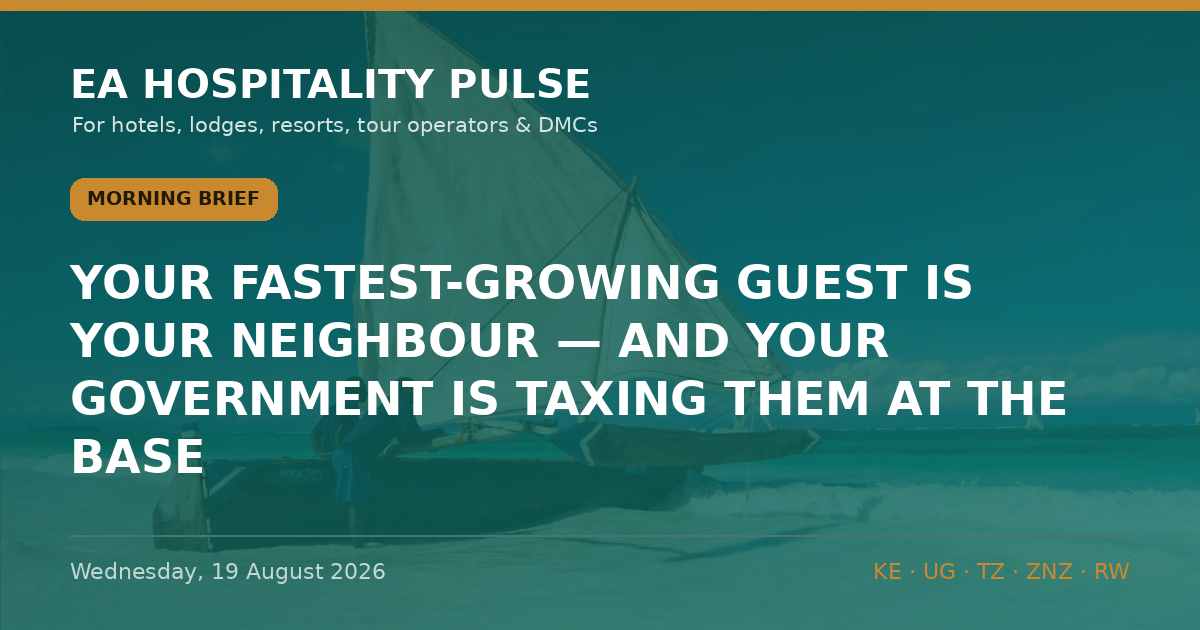
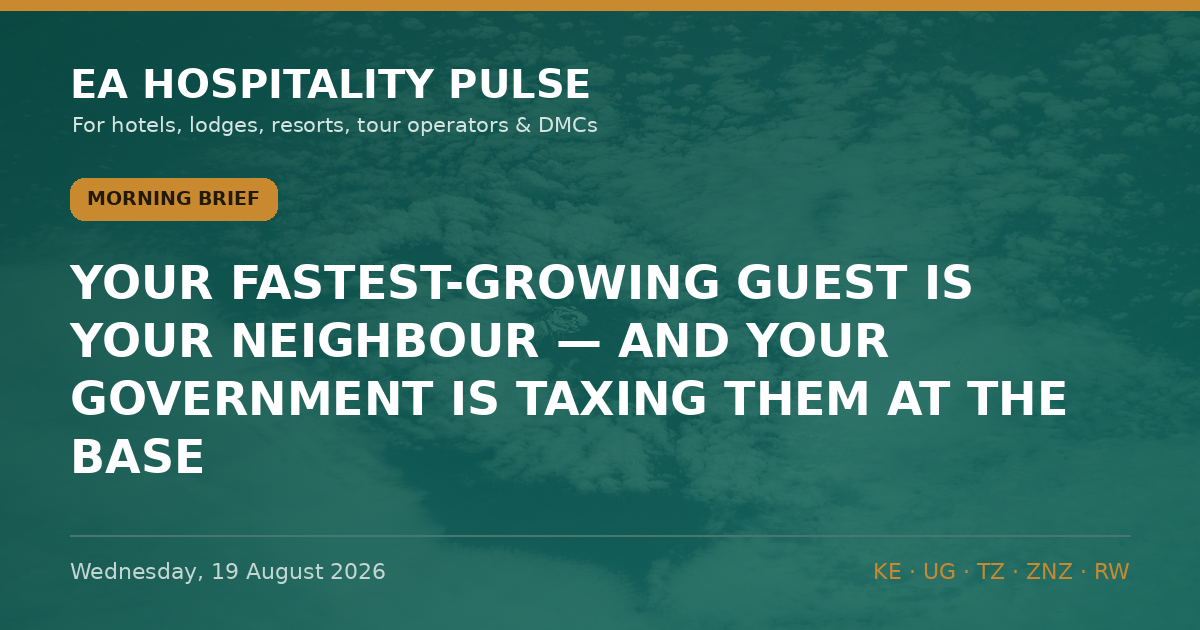
Auto-build: 2026-08-19 05:48 UTC

diff --git a/data.js b/data.js
@@ -9,15 +9,6 @@ window.EDITIONS = [
   "bodyHtml": "<p>☀ <strong>MORNING BRIEF — Tue 19 Aug 2026</strong><br><em>Quiet news slot — one expert read that matters more than any headline.</em></p>\n<p><strong>YOUR FASTEST-GROWING GUEST IS YOUR NEIGHBOUR — AND YOUR GOVERNMENT IS TAXING THEM AT THE BASE</strong></p>\n<p>Read the 2025 source-market tables and the story stops being about Europe. Uganda sent Kenya <strong>234,556 visitors in 2025 — 31% of all African arrivals, up 8.7%</strong>; Tanzania <strong>209,536, up 7.7%</strong> (KTB/TRI data via POATE 2026, reported by Citizen Digital &amp; New Vision). Kenya now targets <strong>300,000 Ugandan arrivals</strong>. In Rwanda it&#x27;s starker: the <strong>DRC is now the single largest source market — 185,420 visitors in H1 2026, 12.5% of all international arrivals</strong> (RDB). The regional guest is the base load now, not the overflow.</p>\n<p><strong>What most operators miss:</strong> the guest base changed but the playbook didn&#x27;t. The marginal booking now comes from a traveller who ignores Western Level-3 advisories, books short, drives or short-hauls in, and pays in a regional currency — yet we still run a long-haul-dollar operation: USD rack rates, GDS/OTA distribution, risk comms aimed at Europe. Worse, the same treasuries celebrating this demand are taxing its most price-sensitive flyer. Kenya&#x27;s JKIA passenger levy is now <strong>pledged to bondholders</strong> (Business Daily, 24 Jul) — hard to cut — with a 2% short-term-rental levy and a proposed travel-health-insurance charge stacking on top. Regional demand shrugs off advisories but is exquisitely sensitive to a $20 levy.</p>\n<p><span class=\"sowhat\">🎯 <strong>So what — by segment:</strong></span><br>🏙 <strong>City:</strong> regional corporate, VFR and events traffic is your steadiest base — build regional-agent and WhatsApp distribution, quote in regional terms, not just a USD rack. 🌿 <strong>Bush:</strong> regional guests are lower-ADR but fill shoulder/low season and hedge advisory-driven long-haul softness — watch the total trip cost, because a park-fee-plus-air-levy stack is what loses them. 🏖 <strong>Beach:</strong> the drive-and-short-haul market (Ugandans/Tanzanians to Diani &amp; Mombasa, regional flyers to Zanzibar) is now year-round base load — protect it from feeder-route fragility and levy creep.<br><span class=\"tagline\">🏷 Regional · Confirmed (KTB/TRI 2025, RDB H1 2026) / Inference on operator response.</span></p>\n<hr class=\"divider\">\n<p>✅ <strong>STILL TRUE</strong> — No EA advisory moved. Kenya <strong>US Level 2</strong> (core corridors, Diani, Watamu clear); Tanzania &amp; Zanzibar <strong>Level 3</strong> (since 31 Oct 2025); Uganda <strong>US Level 4</strong> on residual Ebola grounds despite its 28 Jul outbreak-over call (travel.state.gov, verified 12 Aug). The regional guest travels through all of it — don&#x27;t discount as though it had lifted.<br>💷 <strong>COST PULSE</strong> — Price regional in regional money: KES→UGX <strong>28.36</strong> · KES→TZS <strong>20.30</strong> · KES→RWF <strong>11.31</strong> (CBK weekly). Kenya diesel <strong>KSh 217.86/L</strong> (EPRA, 14 Aug) — refuse any supplier fuel surcharge this cycle.<br><span class=\"meta-line\">📅 <strong>WEEK AHEAD</strong> — <strong>19–21 Aug</strong> Hotel Expo Kenya, KICC · <strong>18–20 Aug</strong> AfPIF, Kigali Marriott · late Aug KNBS/UBOS/NISR CPI · <strong>26–28 Aug</strong> Africa Global PR Week, Nairobi · <strong>4 Sep</strong> Kwita Izina, Musanze.</span><br><span class=\"meta-line\">📡 <strong>RADAR</strong> — 470 in-window observations to 08:38 EAT; feed live. No EA advisory moved (only Mauritania/Netherlands/Ecuador flagged). Jambojet &amp; Airlink press pages moved behind Incapsula — a persistent blind spot, not news. Kenya Law feed heavy with court judgments, none hospitality.</span></p>\n<p>🔗 This edition on the web: https://eahospitalitypulse.com/editions/pulse-2026-08-19-morning.html</p>"
  },
  {
-  "id": "pulse-2026-08-18-special",
-  "date": "2026-08-18",
-  "dateDisplay": "Tuesday, 18 August 2026",
-  "edition": "Morning Brief",
-  "editionKey": "morning",
-  "summary": "🗓 Tuesday 18 August 2026 | 🇰🇪 KNBS data drop",
-  "bodyHtml": "<p>📊 <strong>EA HOSPITALITY PULSE — Special Edition</strong><br>🗓 Tuesday 18 August 2026 | 🇰🇪 KNBS data drop</p>\n<p><em>Kenya&#x27;s arrivals are up — but not where the headline says. Read the map before the margin.</em><br>━━━━━━━━━<br><strong>1⃣ 🇰🇪 THE COAST IS OUTGROWING THE GATEWAY — AND THE NATIONAL NUMBER HIDES IT</strong></p>\n<p>Official visitor arrivals now run through April. Jan–Apr 2026: <strong>828,830, up 9.5%</strong> on the same months of 2025 (757,245) — Kenya Leading Economic Indicators, June 2026, KNBS, released 14 Aug.</p>\n<p>The headline is real. The distribution is the story. Mombasa&#x27;s Moi International (MIA) took <strong>96,701 arrivals, up 19.7%</strong> year-on-year, while JKIA grew <strong>8.5%</strong> and land borders <strong>7.5%</strong>. The coast is recovering over twice as fast as the Nairobi gateway.</p>\n<p><strong>What everyone is missing:</strong> the +9.5% is not evenly yours. In April — the long-rains trough — national arrivals rose just 2.9% and <strong>JKIA fell 1.0%</strong> YoY. Strip the coast out and the city-gateway recovery is modest and seasonal. A Nairobi GM reading &quot;+9.5%&quot; as their own demand is reading the wrong line. Backing it: SGR passengers ran <strong>~12% ahead</strong> in Q1 — the Nairobi–Mombasa corridor is carrying this (KNBS).</p>\n<p><span class=\"tagline\">🏷 City/Beach · Kenya · Confirmed (KNBS arrivals &amp; SGR) / Inference (regional read)</span><br><span class=\"sowhat\">🎯 <strong>So what:</strong> <strong>Coast</strong> — demand is arriving; hold rate through the Sep–Oct build and stop discounting. <strong>Nairobi</strong> — treat H1 as flat-to-soft on your own gateway; win share through corporate, MICE and regional traffic, not a rising tide.</span></p>\n<p><strong>2⃣ 🇰🇪 THE CURRENCY IS QUIETLY REPRICING YOUR EUROPEAN GUEST</strong></p>\n<p>Over H1 2026 the shilling <strong>firmed</strong> against sterling (174.32→<strong>172.72</strong>) and the euro (151.37→<strong>149.22</strong>), flat against the dollar at <strong>~129.5</strong> (KNBS, June). Inflation sat at <strong>6.4%</strong>, the CBR held at <strong>8.75%</strong>.</p>\n<p>Read together: a European operator&#x27;s fixed FX budget now buys <strong>fewer shillings</strong> than in January — mild pressure on any KES-cost property selling into Europe, while dollar-priced lodges keep their spread intact.</p>\n<p><span class=\"tagline\">🏷 City/Bush/Beach · Kenya · Confirmed (KNBS forex/CPI) / Inference (pricing read)</span><br><span class=\"sowhat\">🎯 <strong>So what:</strong> If you cost in shillings and sell in euros or pounds, revisit 2027 contract rates now — the FX drift is against you. Price in USD and you&#x27;re insulated.</span></p>\n<p>━━━━━━━━━<br>🍲 <strong>SUPPLY-CHAIN SIDEBAR — where your southern-circuit kitchen shops</strong></p>\n<p>Informal cross-border trade <strong>fell 16.7%</strong> in 2025 (KSh 299.0m→249.1m), and <strong>Tanzania became the top source of informal imports at 47.2%</strong>, overwhelmingly <strong>food and live animals (78.5%)</strong> — KNBS Informal Cross-Border Trade Survey 2025, released 17 Aug. Main entry points: <strong>Namanga, Isebania, Malaba</strong> — the Amboseli, Mara and Uganda corridors.</p>\n<p><span class=\"sowhat\">🎯 <strong>So what:</strong> Southern-circuit lodges run partly on this informal Tanzanian fresh-food flow. A contracting, Tanzania-concentrated supply line is a produce-cost and continuity risk — worth a word with your F&amp;B suppliers before high season. 🏷 Bush · Confirmed (KNBS ICBT) / Inference.</span></p>\n<p>━━━━━━━━━<br>✅ <strong>STILL TRUE</strong> — Kenya remains US <strong>Level 2</strong>; core corridors (Nairobi, Diani, Watamu) sit in no Level 4 area (travel.state.gov, verified 12 Aug). Don&#x27;t discount on a story that hasn&#x27;t moved.</p>\n<p>⚡ <strong>COST PULSE</strong> — Nairobi diesel holds <strong>KSh 217.86/L</strong> to 14 Sep, ~KSh 14.28/L above landed-cost parity (EPRA / Business Daily, 14 Aug).</p>\n<p><span class=\"meta-line\">📅 <strong>WEEK AHEAD</strong> — <strong>19–21 Aug</strong> Hotel Expo Kenya, KICC · <strong>26–28 Aug</strong> Africa Global PR Week, Nairobi. Watch the <strong>May–June arrivals</strong> print to confirm the coast trend.</span></p>\n<p>🔗 This edition on the web: https://eahospitalitypulse.com/editions/pulse-2026-08-18-special.html<br>— EA Hospitality Pulse | Daily intelligence for city, bush &amp; beach properties</p>"
- },
- {
   "id": "pulse-2026-08-18-morning",
   "date": "2026-08-18",
   "dateDisplay": "Tuesday, 18 August 2026",
@@ -25,6 +16,15 @@ window.EDITIONS = [
   "editionKey": "morning",
   "summary": "1⃣ 🌍 THE AIRLIFT YOU'RE CELEBRATING IS THE LEAST PROFITABLE IN THE WORLD",
   "bodyHtml": "<p>🌅 <strong>EA HOSPITALITY PULSE — Morning Brief</strong><br>🗓 Tuesday 18 August 2026 | 🌍 🇰🇪 🇺🇬 🇷🇼 🇹🇿</p>\n<p><em>Expert Brief: East Africa is adding air routes faster than its airlines can afford to fly them.</em><br>━━━━━━━━━<br><strong>1⃣ 🌍 THE AIRLIFT YOU&#x27;RE CELEBRATING IS THE LEAST PROFITABLE IN THE WORLD</strong></p>\n<p>Every route launch lands as good news in this business. Uganda Airlines opens Entebbe–Accra on 27 Oct and daily Entebbe–Kigali on 18 Nov (announced 5 Aug, The EastAfrican); Airlink starts Cape Town–Zanzibar on 3 Oct. Read the balance sheet underneath and the mood changes.</p>\n<p>IATA&#x27;s December outlook put African carriers at <strong>US$1.30 of profit per passenger</strong> for 2026 against a <strong>US$7.90</strong> global average — a <strong>1.3% margin, the thinnest of any region</strong> (IATA, 9 Dec 2025). By its June AGM it had cut the 2026 line again: profit per passenger down to <strong>40 US cents</strong> from US$2.10 in 2025, and the continent&#x27;s total net profit halved to <strong>~US$100m</strong> (IATA &quot;Energy in Crisis&quot; outlook, 8 Jun 2026). East Africa&#x27;s recovery is riding on the most fragile airlift economics on the planet.</p>\n<p><strong>What everyone is missing:</strong> a new-route press release reads as demand arriving. It is actually thin-margin capacity being <strong>lent</strong> — and thin-margin capacity is the first thing cut when a season underperforms. Turkish suspended 18 routes for summer 2026, Istanbul–Dar es Salaam among them, final flights in May/June (reported 2026). The route you don&#x27;t help fill in its first two seasons is the route that isn&#x27;t there in year three. Airlift is not infrastructure you inherit; it&#x27;s a trade relationship you keep alive.</p>\n<p><span class=\"tagline\">🏷 City/Bush/Beach · Regional · Confirmed (IATA figures &amp; schedules) / Inference (fragility read)</span><br><span class=\"sowhat\">🎯 <strong>So what — by segment:</strong> <strong>City</strong> (Nairobi/Kigali/Kampala): put corporate blocks and MICE contracts onto the new regional frequencies so they survive to a third season. <strong>Bush:</strong> the luxury pivot means fewer, higher-value guests who still need a long-haul seat — cultivate the carriers that actually serve your source markets. <strong>Beach:</strong> feeder routes are the most fragile of all — a trial like Cape Town–Zanzibar lives or dies on load factor. Fill it or lose it.</span></p>\n<p>━━━━━━━━━<br>✅ <strong>STILL TRUE</strong> — Tanzania &amp; Zanzibar remain US <strong>Level 3</strong> (unchanged since 31 Oct 2025); Kenya <strong>Level 2</strong>, core tourist corridors clear (travel.state.gov, verified 12 Aug). Nothing moved overnight. Don&#x27;t discount as though it had.</p>\n<p>⚡ <strong>COST PULSE</strong> — Nairobi diesel holds at <strong>KSh 217.86/L</strong> to 14 Sep; operators are carrying roughly <strong>KSh 14.28/L above landed-cost parity</strong> — refuse any supplier fuel surcharge this cycle (EPRA / Business Daily, 14 Aug).</p>\n<p>🎤 <strong>MICE WATCH</strong> — <strong>AfPIF</strong> (300–500 delegates) fills the Kigali Marriott cluster <strong>18–20 Aug</strong>; <strong>Hotel Expo Kenya</strong> at KICC, <strong>19–21 Aug</strong>. Hold corporate rate, don&#x27;t discount into the shoulder.</p>\n<p><span class=\"meta-line\">📅 <strong>WEEK AHEAD</strong> — <strong>18 Aug</strong> WHO IHR Committee on the Bundibugyo PHEIC · <strong>22 Aug</strong> Julius Nyerere hydropower inauguration, TZ · <strong>26–28 Aug</strong> Africa Global PR Week, Mövenpick Nairobi · <strong>28 Aug</strong> WTA Africa Gala, Zanzibar · <strong>late Aug</strong> KNBS/UBOS/NISR CPI prints.</span></p>\n<p><span class=\"meta-line\">📡 <strong>RADAR</strong> — 593 in-window observations to 08:17 EAT; feed live. Jambojet and Airlink press pages moved again behind Incapsula — a persistent blind spot, not a quiet night. Kenya Law feed heavy with court judgments, none hospitality. No advisory level moved.</span></p>\n<p><span class=\"meta-line\">💬 Which inbound route would you actually miss — and are you filling it, or just watching it?</span></p>\n<p>🔗 This edition on the web: https://eahospitalitypulse.com/editions/pulse-2026-08-18-morning.html<br>— EA Hospitality Pulse | Daily intelligence for city, bush &amp; beach properties</p>"
+ },
+ {
+  "id": "pulse-2026-08-18-special",
+  "date": "2026-08-18",
+  "dateDisplay": "Tuesday, 18 August 2026",
+  "edition": "Morning Brief",
+  "editionKey": "morning",
+  "summary": "🗓 Tuesday 18 August 2026 | 🇰🇪 KNBS data drop",
+  "bodyHtml": "<p>📊 <strong>EA HOSPITALITY PULSE — Special Edition</strong><br>🗓 Tuesday 18 August 2026 | 🇰🇪 KNBS data drop</p>\n<p><em>Kenya&#x27;s arrivals are up — but not where the headline says. Read the map before the margin.</em><br>━━━━━━━━━<br><strong>1⃣ 🇰🇪 THE COAST IS OUTGROWING THE GATEWAY — AND THE NATIONAL NUMBER HIDES IT</strong></p>\n<p>Official visitor arrivals now run through April. Jan–Apr 2026: <strong>828,830, up 9.5%</strong> on the same months of 2025 (757,245) — Kenya Leading Economic Indicators, June 2026, KNBS, released 14 Aug.</p>\n<p>The headline is real. The distribution is the story. Mombasa&#x27;s Moi International (MIA) took <strong>96,701 arrivals, up 19.7%</strong> year-on-year, while JKIA grew <strong>8.5%</strong> and land borders <strong>7.5%</strong>. The coast is recovering over twice as fast as the Nairobi gateway.</p>\n<p><strong>What everyone is missing:</strong> the +9.5% is not evenly yours. In April — the long-rains trough — national arrivals rose just 2.9% and <strong>JKIA fell 1.0%</strong> YoY. Strip the coast out and the city-gateway recovery is modest and seasonal. A Nairobi GM reading &quot;+9.5%&quot; as their own demand is reading the wrong line. Backing it: SGR passengers ran <strong>~12% ahead</strong> in Q1 — the Nairobi–Mombasa corridor is carrying this (KNBS).</p>\n<p><span class=\"tagline\">🏷 City/Beach · Kenya · Confirmed (KNBS arrivals &amp; SGR) / Inference (regional read)</span><br><span class=\"sowhat\">🎯 <strong>So what:</strong> <strong>Coast</strong> — demand is arriving; hold rate through the Sep–Oct build and stop discounting. <strong>Nairobi</strong> — treat H1 as flat-to-soft on your own gateway; win share through corporate, MICE and regional traffic, not a rising tide.</span></p>\n<p><strong>2⃣ 🇰🇪 THE CURRENCY IS QUIETLY REPRICING YOUR EUROPEAN GUEST</strong></p>\n<p>Over H1 2026 the shilling <strong>firmed</strong> against sterling (174.32→<strong>172.72</strong>) and the euro (151.37→<strong>149.22</strong>), flat against the dollar at <strong>~129.5</strong> (KNBS, June). Inflation sat at <strong>6.4%</strong>, the CBR held at <strong>8.75%</strong>.</p>\n<p>Read together: a European operator&#x27;s fixed FX budget now buys <strong>fewer shillings</strong> than in January — mild pressure on any KES-cost property selling into Europe, while dollar-priced lodges keep their spread intact.</p>\n<p><span class=\"tagline\">🏷 City/Bush/Beach · Kenya · Confirmed (KNBS forex/CPI) / Inference (pricing read)</span><br><span class=\"sowhat\">🎯 <strong>So what:</strong> If you cost in shillings and sell in euros or pounds, revisit 2027 contract rates now — the FX drift is against you. Price in USD and you&#x27;re insulated.</span></p>\n<p>━━━━━━━━━<br>🍲 <strong>SUPPLY-CHAIN SIDEBAR — where your southern-circuit kitchen shops</strong></p>\n<p>Informal cross-border trade <strong>fell 16.7%</strong> in 2025 (KSh 299.0m→249.1m), and <strong>Tanzania became the top source of informal imports at 47.2%</strong>, overwhelmingly <strong>food and live animals (78.5%)</strong> — KNBS Informal Cross-Border Trade Survey 2025, released 17 Aug. Main entry points: <strong>Namanga, Isebania, Malaba</strong> — the Amboseli, Mara and Uganda corridors.</p>\n<p><span class=\"sowhat\">🎯 <strong>So what:</strong> Southern-circuit lodges run partly on this informal Tanzanian fresh-food flow. A contracting, Tanzania-concentrated supply line is a produce-cost and continuity risk — worth a word with your F&amp;B suppliers before high season. 🏷 Bush · Confirmed (KNBS ICBT) / Inference.</span></p>\n<p>━━━━━━━━━<br>✅ <strong>STILL TRUE</strong> — Kenya remains US <strong>Level 2</strong>; core corridors (Nairobi, Diani, Watamu) sit in no Level 4 area (travel.state.gov, verified 12 Aug). Don&#x27;t discount on a story that hasn&#x27;t moved.</p>\n<p>⚡ <strong>COST PULSE</strong> — Nairobi diesel holds <strong>KSh 217.86/L</strong> to 14 Sep, ~KSh 14.28/L above landed-cost parity (EPRA / Business Daily, 14 Aug).</p>\n<p><span class=\"meta-line\">📅 <strong>WEEK AHEAD</strong> — <strong>19–21 Aug</strong> Hotel Expo Kenya, KICC · <strong>26–28 Aug</strong> Africa Global PR Week, Nairobi. Watch the <strong>May–June arrivals</strong> print to confirm the coast trend.</span></p>\n<p>🔗 This edition on the web: https://eahospitalitypulse.com/editions/pulse-2026-08-18-special.html<br>— EA Hospitality Pulse | Daily intelligence for city, bush &amp; beach properties</p>"
  },
  {
   "id": "pulse-2026-08-17-evening",
@@ -2047,4 +2047,4 @@ window.INSIGHTS = [
   "editionKey": "evening"
  }
 ];
-window.BUILT_AT = "2026-08-19 08:46";
+window.BUILT_AT = "2026-08-19 05:47";

diff --git a/editions/pulse-2026-08-19-morning.html b/editions/pulse-2026-08-19-morning.html
@@ -122,7 +122,7 @@ footer.s{text-align:center;color:var(--muted);font-family:Helvetica Neue,Arial,s
 <div class="wrap">
   <article class="art">
     <img class="hero" src="../og/pulse-2026-08-19-morning-clean.png" alt="Morning Brief — Wednesday, 19 August 2026" loading="eager">
-    
+    <p class="hcredit">Photo: NASA Johnson Space Center · <a href="https://commons.wikimedia.org/wiki/File:Mount_Kilimanjaro_surrounded_by_clouds_and_the_highest_mountian_in_Africa_(iss071e378517).jpg" target="_blank" rel="noopener nofollow">Wikimedia Commons</a> · Public domain</p>
     <nav class="crumbs" aria-label="Breadcrumb"><a href="../index.html">Home</a><span aria-hidden="true">/</span><a href="../index.html#archive">Editions</a><span aria-hidden="true">/</span><span aria-current="page">Morning Brief, Wednesday, 19 August 2026</span></nav>
     <div class="kicker"><span class="badge">Morning Brief</span><time datetime="2026-08-19">Wednesday, 19 August 2026</time></div>
     <h1>Your Fastest-growing Guest Is Your Neighbour — and Your Government Is Taxing Them at the Base.</h1>
@@ -136,7 +136,7 @@ footer.s{text-align:center;color:var(--muted);font-family:Helvetica Neue,Arial,s
 <p>🔗 This edition on the web: https://eahospitalitypulse.com/editions/pulse-2026-08-19-morning.html</p>
     
     <aside class="refs" aria-label="Reference guides"><h2>Reference</h2><ul><li><a href="../guides/ota-commission-what-it-actually-costs.html">What OTA commission actually costs an East African hotel</a></li><li><a href="../guides/park-permit-fees-east-africa.html">Park and permit fees across East Africa: what to check before you quote</a></li><li><a href="../guides/sustainability-compliance-east-africa.html">Sustainability compliance in East Africa — plastics, carbon and certification, without the hype</a></li><li><a href="../guides/tech-stack-east-africa.html">The East African hotel tech stack — payment costs, PMS fit and where AI pricing actually works</a></li><li><a href="../guides/travel-advisories-what-actually-moves-bookings.html">Reading a travel advisory: what actually moves bookings</a></li></ul></aside>
-    <nav class="pnrow"><a class="pn prev" href="pulse-2026-08-18-special.html" rel="prev">← Morning Brief · Tuesday, 18 August 2026</a></nav>
+    <nav class="pnrow"><a class="pn prev" href="pulse-2026-08-18-morning.html" rel="prev">← Morning Brief · Tuesday, 18 August 2026</a></nav>
     <div class="sub">
       <b>Follow the Pulse</b> — three briefs a day across Kenya, Uganda, Tanzania, Zanzibar &amp; Rwanda.<br>
       <a href="https://t.me/eahospitalitypulse" target="_blank" rel="noopener">📣 Telegram (full editions)</a>

diff --git a/editions/pulse-2026-08-17-evening.html b/editions/pulse-2026-08-17-evening.html
@@ -139,7 +139,7 @@ footer.s{text-align:center;color:var(--muted);font-family:Helvetica Neue,Arial,s
 <p>🔗 This edition on the web: https://eahospitalitypulse.com/editions/pulse-2026-08-17-evening.html<br>💼 Today&#x27;s Big Read on LinkedIn: https://www.linkedin.com/company/ea-hospitality-pulse/<br>— EA Hospitality Pulse | Daily intelligence for city, bush &amp; beach properties</p>
     <div class="more"><b>More from Monday, 17 August 2026:</b> <a href="pulse-2026-08-17-midday.html">Midday Pulse</a></div>
     <aside class="refs" aria-label="Reference guides"><h2>Reference</h2><ul><li><a href="../guides/ota-commission-what-it-actually-costs.html">What OTA commission actually costs an East African hotel</a></li><li><a href="../guides/park-permit-fees-east-africa.html">Park and permit fees across East Africa: what to check before you quote</a></li><li><a href="../guides/sustainability-compliance-east-africa.html">Sustainability compliance in East Africa — plastics, carbon and certification, without the hype</a></li><li><a href="../guides/tech-stack-east-africa.html">The East African hotel tech stack — payment costs, PMS fit and where AI pricing actually works</a></li><li><a href="../guides/travel-advisories-what-actually-moves-bookings.html">Reading a travel advisory: what actually moves bookings</a></li></ul></aside>
-    <nav class="pnrow"><a class="pn prev" href="pulse-2026-08-17-midday.html" rel="prev">← Midday Pulse · Monday, 17 August 2026</a><a class="pn next" href="pulse-2026-08-18-morning.html" rel="next">Morning Brief · Tuesday, 18 August 2026 →</a></nav>
+    <nav class="pnrow"><a class="pn prev" href="pulse-2026-08-17-midday.html" rel="prev">← Midday Pulse · Monday, 17 August 2026</a><a class="pn next" href="pulse-2026-08-18-special.html" rel="next">Morning Brief · Tuesday, 18 August 2026 →</a></nav>
     <div class="sub">
       <b>Follow the Pulse</b> — three briefs a day across Kenya, Uganda, Tanzania, Zanzibar &amp; Rwanda.<br>
       <a href="https://t.me/eahospitalitypulse" target="_blank" rel="noopener">📣 Telegram (full editions)</a>

diff --git a/editions/pulse-2026-08-18-morning.html b/editions/pulse-2026-08-18-morning.html
@@ -141,7 +141,7 @@ footer.s{text-align:center;color:var(--muted);font-family:Helvetica Neue,Arial,s
 <p>🔗 This edition on the web: https://eahospitalitypulse.com/editions/pulse-2026-08-18-morning.html<br>— EA Hospitality Pulse | Daily intelligence for city, bush &amp; beach properties</p>
     <div class="more"><b>More from Tuesday, 18 August 2026:</b> <a href="pulse-2026-08-18-special.html">Morning Brief</a></div>
     <aside class="refs" aria-label="Reference guides"><h2>Reference</h2><ul><li><a href="../guides/ota-commission-what-it-actually-costs.html">What OTA commission actually costs an East African hotel</a></li><li><a href="../guides/park-permit-fees-east-africa.html">Park and permit fees across East Africa: what to check before you quote</a></li><li><a href="../guides/sustainability-compliance-east-africa.html">Sustainability compliance in East Africa — plastics, carbon and certification, without the hype</a></li><li><a href="../guides/tech-stack-east-africa.html">The East African hotel tech stack — payment costs, PMS fit and where AI pricing actually works</a></li><li><a href="../guides/travel-advisories-what-actually-moves-bookings.html">Reading a travel advisory: what actually moves bookings</a></li></ul></aside>
-    <nav class="pnrow"><a class="pn prev" href="pulse-2026-08-17-evening.html" rel="prev">← Evening Wrap · Monday, 17 August 2026</a><a class="pn next" href="pulse-2026-08-18-special.html" rel="next">Morning Brief · Tuesday, 18 August 2026 →</a></nav>
+    <nav class="pnrow"><a class="pn prev" href="pulse-2026-08-18-special.html" rel="prev">← Morning Brief · Tuesday, 18 August 2026</a><a class="pn next" href="pulse-2026-08-19-morning.html" rel="next">Morning Brief · Wednesday, 19 August 2026 →</a></nav>
     <div class="sub">
       <b>Follow the Pulse</b> — three briefs a day across Kenya, Uganda, Tanzania, Zanzibar &amp; Rwanda.<br>
       <a href="https://t.me/eahospitalitypulse" target="_blank" rel="noopener">📣 Telegram (full editions)</a>

diff --git a/editions/pulse-2026-08-18-special.html b/editions/pulse-2026-08-18-special.html
@@ -145,7 +145,7 @@ footer.s{text-align:center;color:var(--muted);font-family:Helvetica Neue,Arial,s
 <p>🔗 This edition on the web: https://eahospitalitypulse.com/editions/pulse-2026-08-18-special.html<br>— EA Hospitality Pulse | Daily intelligence for city, bush &amp; beach properties</p>
     <div class="more"><b>More from Tuesday, 18 August 2026:</b> <a href="pulse-2026-08-18-morning.html">Morning Brief</a></div>
     <aside class="refs" aria-label="Reference guides"><h2>Reference</h2><ul><li><a href="../guides/ota-commission-what-it-actually-costs.html">What OTA commission actually costs an East African hotel</a></li><li><a href="../guides/park-permit-fees-east-africa.html">Park and permit fees across East Africa: what to check before you quote</a></li><li><a href="../guides/sustainability-compliance-east-africa.html">Sustainability compliance in East Africa — plastics, carbon and certification, without the hype</a></li><li><a href="../guides/tech-stack-east-africa.html">The East African hotel tech stack — payment costs, PMS fit and where AI pricing actually works</a></li><li><a href="../guides/travel-advisories-what-actually-moves-bookings.html">Reading a travel advisory: what actually moves bookings</a></li></ul></aside>
-    <nav class="pnrow"><a class="pn prev" href="pulse-2026-08-18-morning.html" rel="prev">← Morning Brief · Tuesday, 18 August 2026</a><a class="pn next" href="pulse-2026-08-19-morning.html" rel="next">Morning Brief · Wednesday, 19 August 2026 →</a></nav>
+    <nav class="pnrow"><a class="pn prev" href="pulse-2026-08-17-evening.html" rel="prev">← Evening Wrap · Monday, 17 August 2026</a><a class="pn next" href="pulse-2026-08-18-morning.html" rel="next">Morning Brief · Tuesday, 18 August 2026 →</a></nav>
     <div class="sub">
       <b>Follow the Pulse</b> — three briefs a day across Kenya, Uganda, Tanzania, Zanzibar &amp; Rwanda.<br>
       <a href="https://t.me/eahospitalitypulse" target="_blank" rel="noopener">📣 Telegram (full editions)</a>

diff --git a/index.html b/index.html
@@ -395,7 +395,7 @@
     a{color:#000}
   }
 </style>
-<!--BUILD_STAMP:20260819-0846--></head>
+<!--BUILD_STAMP:20260819-0547--></head>
 <body>
 <header class="site">
   <div class="wrap topbar">

diff --git a/ledger.js b/ledger.js
@@ -1,5 +1,5 @@
 window.LEDGER = {
- "updated": "2026-08-19 08:46",
+ "updated": "2026-08-19 05:48",
  "stats": {
   "total": 105,
   "open": 84,
